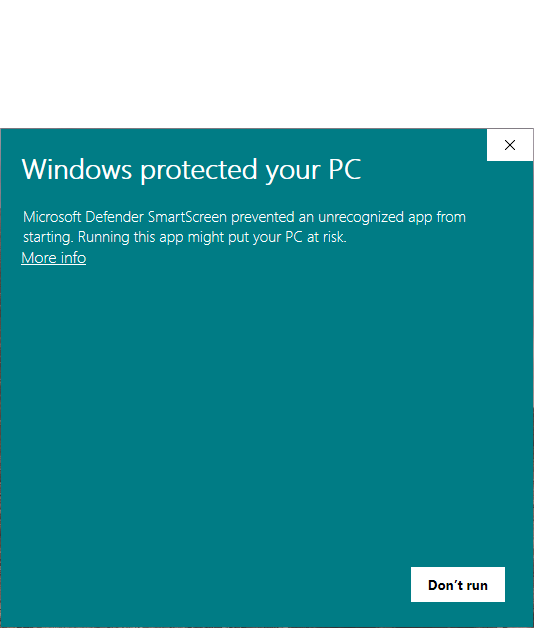
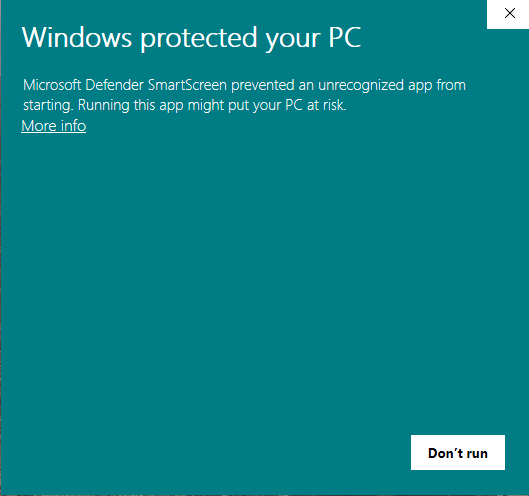
📝 windows instuctions

diff --git a/docs/index.md b/docs/index.md
@@ -11,7 +11,10 @@ Download links:
 
 * **Windows**
     1. Download exe from release
-    1. You will get a warning 
+    1. You will get a warning click more info
+    ![Error](assets/windows_warning.png)
+    1. Then click run anyway
+    ![Error](assets/windows_accept.png)
 
 * **MacOS**
     1. Download dmg from releases
